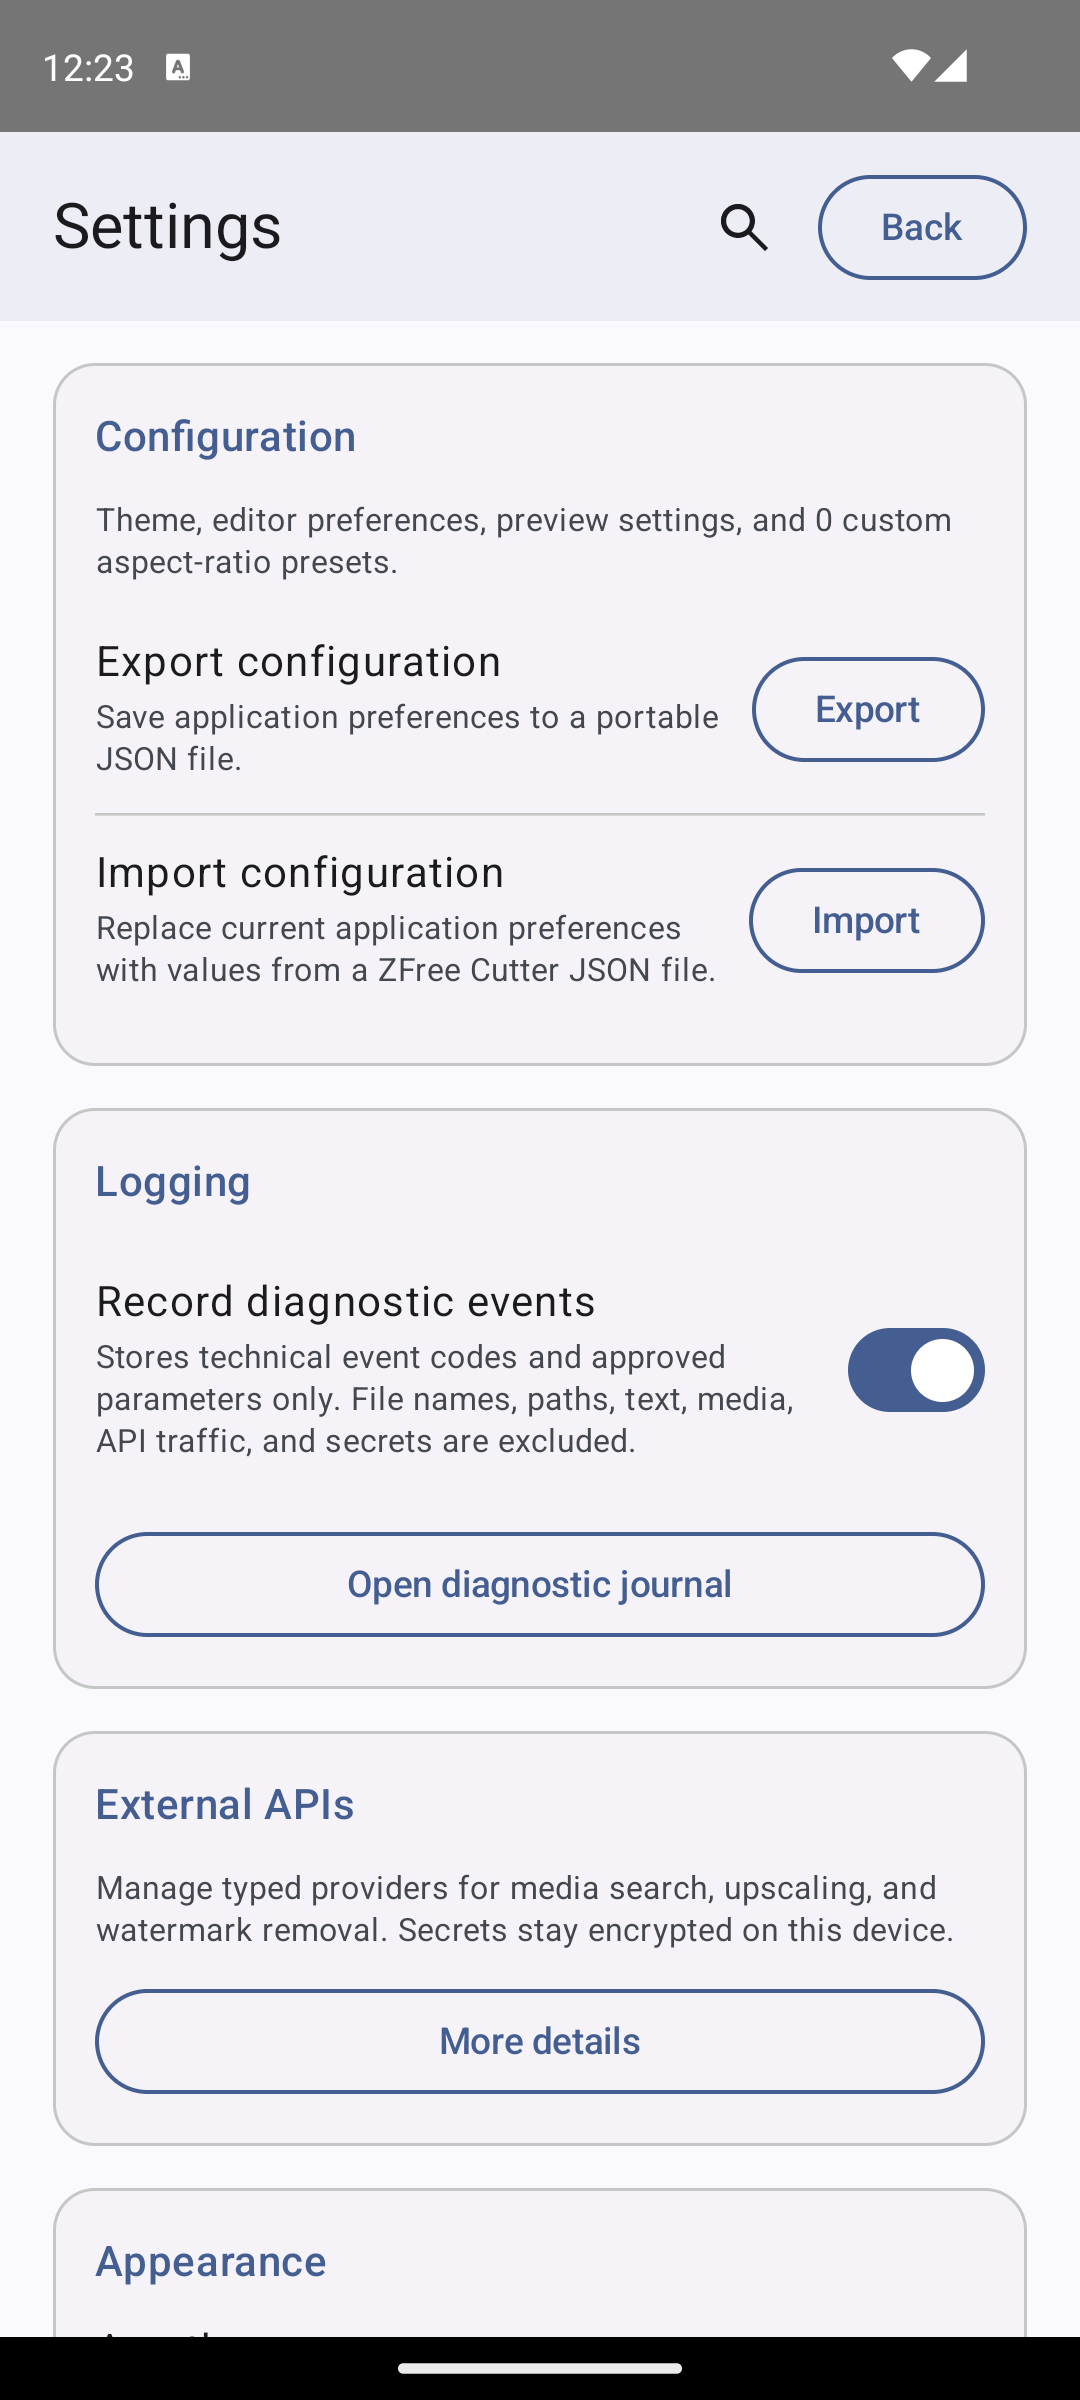
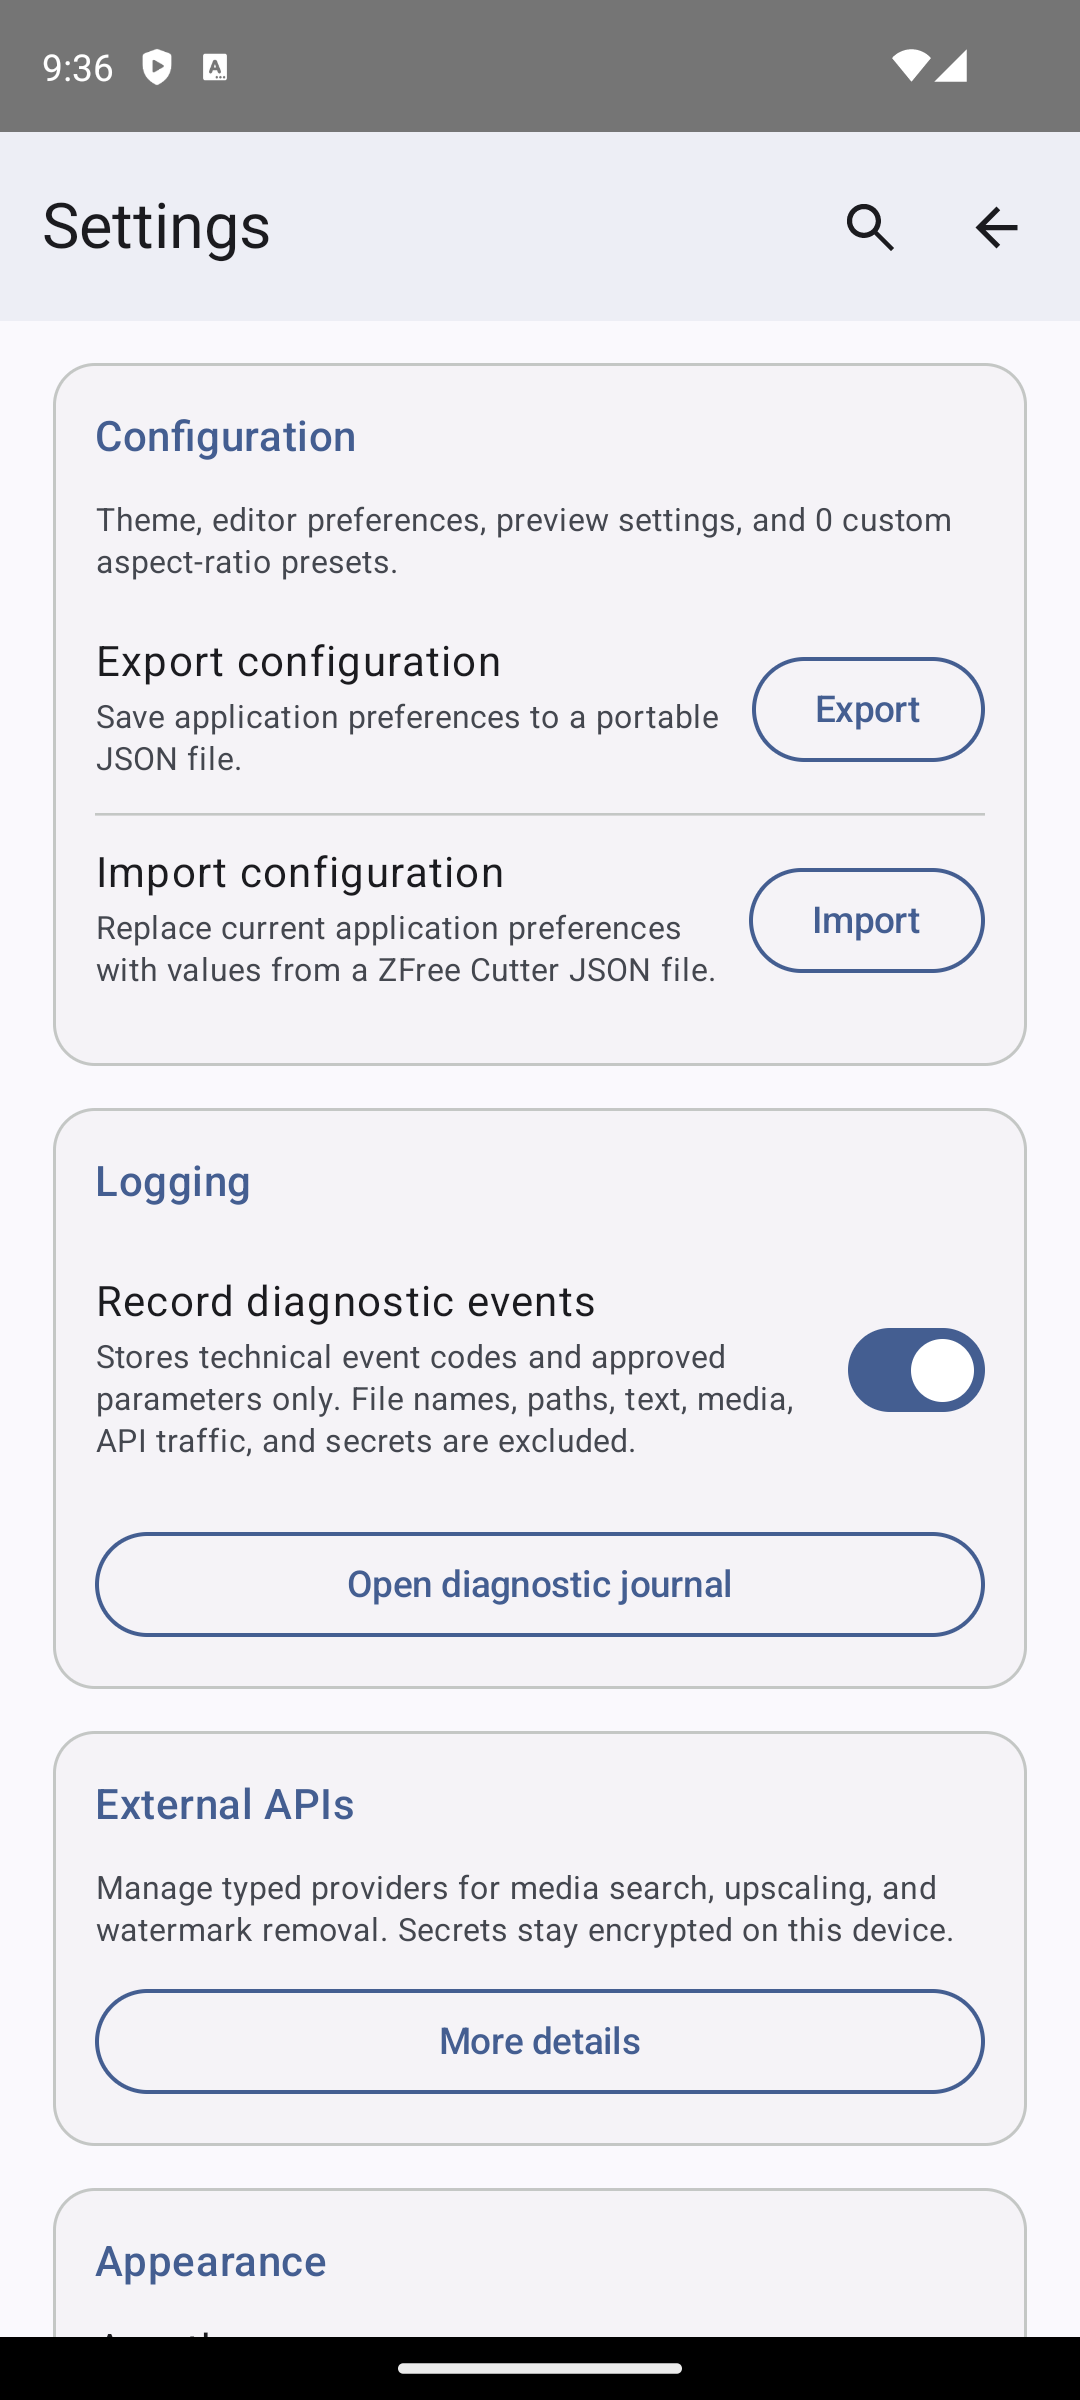
Update website for 0.5.6

diff --git a/app/page.tsx b/app/page.tsx
@@ -25,7 +25,7 @@ const copy = {
       titleA: "Обрежь лишнее.",
       titleB: "Оставь момент.",
       text: "Открой видео, фото или GIF, внеси нужные правки и сохрани результат. Всё происходит прямо на телефоне — понятно и без лишних шагов.",
-      download: "Скачать v0.5.5",
+      download: "Скачать v0.5.6",
       source: "Открыть код",
       note: "Бесплатно · Open source · без подписки",
       local: "Обработка на устройстве",
@@ -35,14 +35,14 @@ const copy = {
     intro: {
       kicker: "Всё в одном месте",
       title: "Один редактор для видео, фото и GIF.",
-      text: "Выбери файл на устройстве или найди медиа с открытой лицензией в онлайн-каталоге. Локальная медиатека показывает фактические размеры и сортирует по разрешению, а сохранённый проект можно открыть снова в любой момент.",
+      text: "Выбери файл на устройстве или найди медиа с открытой лицензией в онлайн-каталоге. Локальная медиатека показывает фактические размеры, а новый режим Telegram создаёт компактные беззвучные MP4-анимации.",
     },
     media: {
       video: {
         label: "Видео",
         title: "Всё нужное для короткого монтажа",
         text: "Обрежь фрагмент, измени скорость, добавь эффект, текст, изображение или звук. Все изменения собраны на одном таймлайне.",
-        points: ["MP4 / H.264 / AAC", "Cyberpunk и Mixed glitch", "Фокус звука и фоновые уведомления"],
+        points: ["MP4 / H.264 / AAC", "Telegram-анимация без звука", "Адаптивные 854 px · до 30 FPS"],
       },
       photo: {
         label: "Фото",
@@ -64,7 +64,7 @@ const copy = {
       names: ["Главная", "Медиатека", "Онлайн-медиа", "Редактор", "Эффекты", "Экспорт", "Настройки"],
     },
     final: {
-      eyebrow: "Версия 0.5.5 · Android 10+",
+      eyebrow: "Версия 0.5.6 · Android 10+",
       title: "Медиа уже на телефоне. Редактор тоже может быть там.",
       download: "Скачать APK",
       changelog: "Что нового",
@@ -91,7 +91,7 @@ const copy = {
       titleA: "Cut the noise.",
       titleB: "Keep the moment.",
       text: "Open a video, photo, or GIF, make the changes you need, and save the result. Everything happens right on your phone, without unnecessary steps.",
-      download: "Download v0.5.5",
+      download: "Download v0.5.6",
       source: "View source",
       note: "Free · Open source · no subscription",
       local: "On-device processing",
@@ -101,14 +101,14 @@ const copy = {
     intro: {
       kicker: "Everything in one place",
       title: "One editor for video, photos, and GIFs.",
-      text: "Choose a file on your device or find openly licensed media in the online catalog. The local library shows actual dimensions and sorts by resolution, and saved projects can be reopened whenever you need them.",
+      text: "Choose a file on your device or find openly licensed media in the online catalog. The local library shows actual dimensions, while the new Telegram target creates compact silent MP4 animations.",
     },
     media: {
       video: {
         label: "Video",
         title: "Everything you need for a quick edit",
         text: "Trim a clip, change its speed, and add effects, text, images, or audio. Every change lives on one timeline.",
-        points: ["MP4 / H.264 / AAC", "Cyberpunk and Mixed glitch", "Audio focus and export notifications"],
+        points: ["MP4 / H.264 / AAC", "Silent Telegram animation", "Adaptive 854 px · up to 30 FPS"],
       },
       photo: {
         label: "Photo",
@@ -130,7 +130,7 @@ const copy = {
       names: ["Home", "Library", "Online media", "Editor", "Effects", "Export", "Settings"],
     },
     final: {
-      eyebrow: "Version 0.5.5 · Android 10+",
+      eyebrow: "Version 0.5.6 · Android 10+",
       title: "Your media lives on your phone. Your editor can too.",
       download: "Download APK",
       changelog: "What’s new",
@@ -201,8 +201,8 @@ export default function Home() {
       if (description) {
         description.content =
           locale === "ru"
-            ? "ZFree Cutter 0.5.5 — открытый Android-редактор видео, фото и GIF с точным кадрированием, сортировкой по разрешению и настраиваемым онлайн-поиском."
-            : "ZFree Cutter 0.5.5 is an open-source Android editor for video, photos, and GIFs with exact cropping, resolution sorting, and configurable online search.";
+            ? "ZFree Cutter 0.5.6 — открытый Android-редактор видео, фото и GIF с компактными Telegram-анимациями, точным кадрированием и обработкой на устройстве."
+            : "ZFree Cutter 0.5.6 is an open-source Android editor for video, photos, and GIFs with compact Telegram animations, exact cropping, and on-device processing.";
       }
     });
     const revealElements = Array.from(document.querySelectorAll<HTMLElement>("[data-reveal]"));
@@ -440,7 +440,7 @@ export default function Home() {
             <p className="final-note">{t.final.note}</p>
             <div className="final-links">
               <a href={`${REPOSITORY_URL}/issues`} target="_blank" rel="noreferrer">{t.final.issues}</a>
-              <a href={`${REPOSITORY_URL}/releases/tag/v0.5.5`} target="_blank" rel="noreferrer">{t.final.changelog}</a>
+              <a href={`${REPOSITORY_URL}/releases/tag/v0.5.6`} target="_blank" rel="noreferrer">{t.final.changelog}</a>
             </div>
           </div>
           <div className="final-mark" aria-hidden="true">

diff --git a/app/layout.tsx b/app/layout.tsx
@@ -18,7 +18,7 @@ export const metadata: Metadata = {
   metadataBase: new URL(siteUrl),
   title: "ZFree Cutter — media editor for Android",
   description:
-    "ZFree Cutter 0.5.5 is an open-source Android editor for video, photos, and GIFs with exact cropping, resolution sorting, configurable online media search, and on-device export.",
+    "ZFree Cutter 0.5.6 is an open-source Android editor for video, photos, and GIFs with compact Telegram animations, exact cropping, and on-device export.",
   applicationName: "ZFree Cutter",
   authors: [{ name: "zmorok", url: "https://github.com/zmorok" }],
   keywords: ["Android", "video editor", "photo editor", "GIF editor", "open source", "Kotlin"],
@@ -37,7 +37,7 @@ export const metadata: Metadata = {
   },
   openGraph: {
     title: "ZFree Cutter — Cut the noise. Keep the moment.",
-    description: "Version 0.5.5 of the open-source media editor for Android.",
+    description: "Version 0.5.6 of the open-source media editor for Android.",
     url: siteUrl,
     siteName: "ZFree Cutter",
     locale: "en_US",
